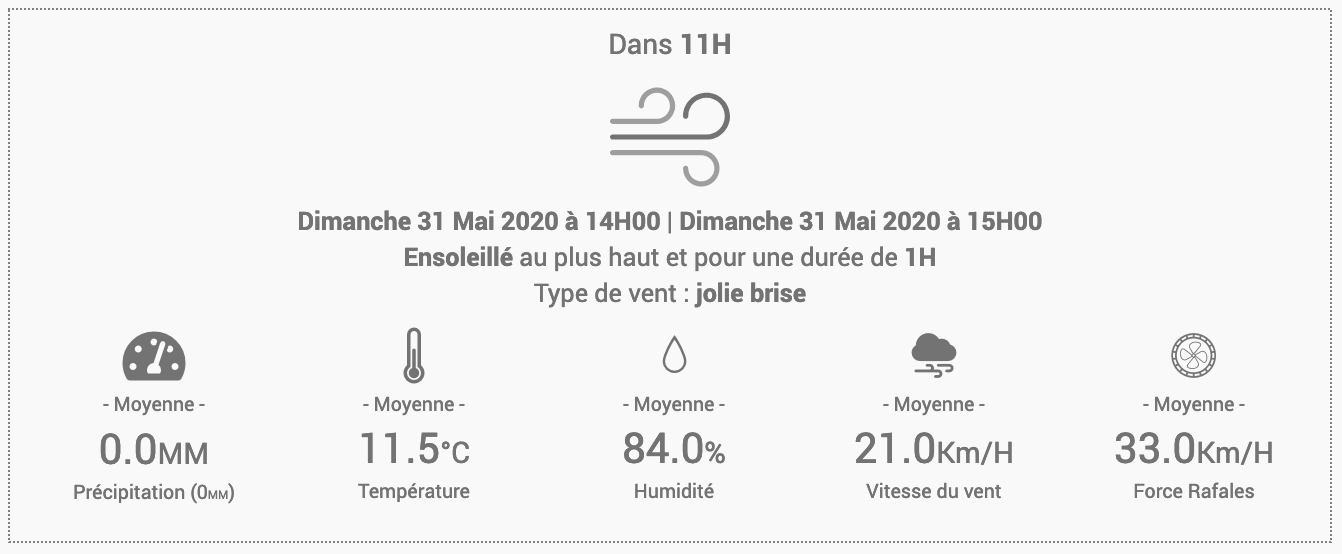
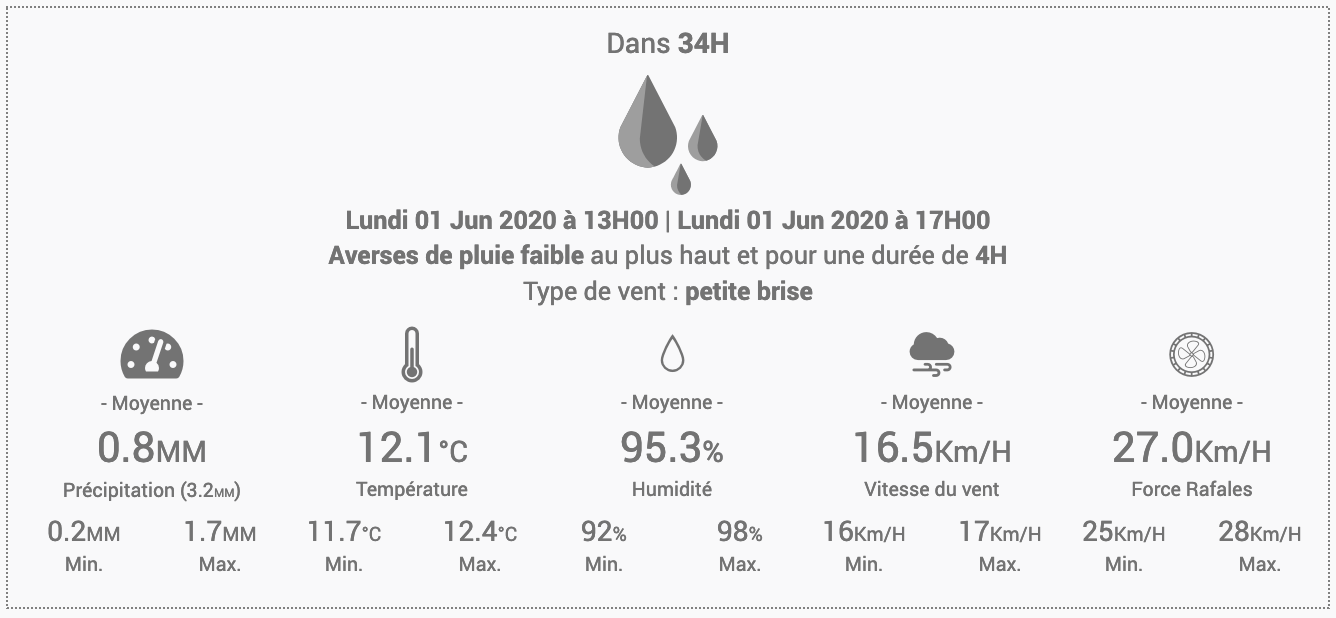
Suite Doc Ajout Latitude et Longitude Fix mois

diff --git a/core/class/previsy.class.php b/core/class/previsy.class.php
@@ -90,6 +90,8 @@ class previsy extends eqLogic {
         log::add('previsy', 'debug', 'UpdateDatas :. Lancement des mises à jour des données de #ID#' . $previsy->getId());
 
         $previsy->checkAndUpdateCmd('ville', $info["GLOBAL"]["VILLE"]);
+        $previsy->checkAndUpdateCmd('latitude', $info["GLOBAL"]["LATITUDE"]);
+        $previsy->checkAndUpdateCmd('longitude', $info["GLOBAL"]["LONGITUDE"]);
         $previsy->checkAndUpdateCmd('last_update', $info["GLOBAL"]["LAST_SYNCHRO"]);
         
         $showCommande = $previsy->getCofingShowCommandes();
@@ -263,6 +265,32 @@ class previsy extends eqLogic {
         $info->setIsVisible(0);
         $info->setType('info');
         $info->setSubType('string');
+        $info->save();
+        
+        $info = $this->getCmd(null, 'latitude');
+        if (!is_object($info)) {
+            $info = new previsyCmd();
+            $info->setName(__('Latitude', __FILE__));
+        }
+        $info->setLogicalId('latitude');
+        $info->setEqLogic_id($this->getId());
+        $info->setIsHistorized(0);
+        $info->setIsVisible(0);
+        $info->setType('info');
+        $info->setSubType('numeric');
+        $info->save();
+        
+        $info = $this->getCmd(null, 'longitude');
+        if (!is_object($info)) {
+            $info = new previsyCmd();
+            $info->setName(__('Longitude', __FILE__));
+        }
+        $info->setLogicalId('longitude');
+        $info->setEqLogic_id($this->getId());
+        $info->setIsHistorized(0);
+        $info->setIsVisible(0);
+        $info->setType('info');
+        $info->setSubType('numeric');
         $info->save();
 
         for ($i = 1; $i <= $nb_alerte; $i++) {
@@ -786,6 +814,12 @@ class previsy extends eqLogic {
 
         $last_date = $this->getCmd(null, 'ville');
         $replace['#ville#'] = (is_object($last_date)) ? $last_date->execCmd() : '';
+        
+        $last_date = $this->getCmd(null, 'latitude');
+        $replace['#latitude#'] = (is_object($last_date)) ? $last_date->execCmd() : '';
+        
+        $last_date = $this->getCmd(null, 'longitude');
+        $replace['#longitude#'] = (is_object($last_date)) ? $last_date->execCmd() : '';
 
         $last_date = $this->getCmd(null, 'last_update');
         $replace['#last_date#'] = (is_object($last_date)) ? $last_date->execCmd() : '';
@@ -1011,6 +1045,16 @@ class previsy extends eqLogic {
 
             $json = $getJson["datas"];
             $now["GLOBAL"]["LAST_SYNCHRO"] = $getJson["datetime"];
+            
+            if(!empty($eqLogic->getConfiguration("latitude")) AND !empty($eqLogic->getConfiguration("longitude"))){
+                $now["GLOBAL"]["VILLE"] = NULL;
+                $now["GLOBAL"]["LATITUDE"] = $eqLogic->getConfiguration("latitude");
+                $now["GLOBAL"]["LONGITUDE"] = $eqLogic->getConfiguration("longitude");
+            } elseif(!empty($eqLogic->getConfiguration("ville"))){
+                $now["GLOBAL"]["VILLE"] = $eqLogic->getConfiguration("ville");
+                $now["GLOBAL"]["LATITUDE"] = $json->city_info->latitude;
+                $now["GLOBAL"]["LONGITUDE"] = $json->city_info->longitude;
+            }
 
             if (!is_array($json->errors)) {
 
@@ -1253,6 +1297,10 @@ class previsy extends eqLogic {
         $eqLogic = self::byId($_id);
 
         $ville = $eqLogic->getConfiguration("ville");
+        
+        $latitude = $eqLogic->getConfiguration("latitude");
+        $ongitude = $eqLogic->getConfiguration("longitude");
+        
         $config = $eqLogic->getConfigPrevisy();
 
         $tempJson = $config["jsonTampon"] . $_id . ".json";
@@ -1281,6 +1329,16 @@ class previsy extends eqLogic {
         $eqLogic = self::byId($_id);
 
         $ville = $this->getConfiguration("ville");
+        
+        $latitude = $this->getConfiguration("latitude");
+        $longitude = $this->getConfiguration("longitude");
+        
+        if(!empty($latitude) AND !empty($longitude)){
+            $searchBy = "lat=".$latitude."lng=".$longitude;
+        } else {
+            $searchBy = $ville;
+        }
+        
         $config = $this->getConfigPrevisy();
 
         $tempStartTimeUrl = time();
@@ -1291,7 +1349,7 @@ class previsy extends eqLogic {
         }
 
         log::add('previsy', 'debug', 'miseEnCacheJson :. Récupération des données ' . $config["urlApi"] . $ville);
-        $json = file_get_contents($config["urlApi"] . $ville); // Prod
+        $json = file_get_contents($config["urlApi"] . $searchBy); // Prod
 
         if (!empty($json)) {
             $file_tmp = $config["jsonTampon"] . $_id . ".temp";

diff --git a/desktop/php/previsy.php b/desktop/php/previsy.php
@@ -103,6 +103,16 @@ $eqLogics = eqLogic::byType($plugin->getId());
                             </span>
                             <div><a href="" target="_blank"></a></div>
                         </div>
+                        <div class="form-group" style="margin-top: 15px;">
+                            <label class="col-sm-3 control-label">{{Coordonnées du point (prend le dessus sur la ville)}}</label>
+                            <div class="col-sm-3">
+                                <input type="text" class="eqLogicAttr form-control" data-l1key="configuration" data-l2key="latitude" placeholder="latitude" />
+                            </div>
+                            <div class="col-sm-3">
+                                <input type="text" class="eqLogicAttr form-control" data-l1key="configuration" data-l2key="longitude" placeholder="longitude" />
+                            </div>
+                            <div><a href="" target="_blank"></a></div>
+                        </div>
                         <div class="form-group" style="margin-top: 5px;">
                             <label class="col-sm-3 control-label">{{Afficher le texte prédictif dans le widget }}</label>
                             <div class="col-sm-3">

diff --git a/core/class/translate/previsy.class.fr_FR.php b/core/class/translate/previsy.class.fr_FR.php
@@ -15,7 +15,7 @@ class previsy_language {
         $return["HEURE"] = $_date->format('H:i');
         $return["DATE"] = $_date->format('d/m/Y');
         $return["JOUR"] = $_date->format('l');
-        $return["JOUR_TXT"] = self::traduitDateTimeJour($_date->format('l')) . " " . $_date->format('d') . " " . self::traduitDateTimeMois($_date->format('M')) . " " . $_date->format('Y') . " à " . $_date->format('H') . "H00";
+        $return["JOUR_TXT"] = self::traduitDateTimeJour($_date->format('l')) . " " . $_date->format('d') . " " . self::traduitDateTimeMois($_date->format('F')) . " " . $_date->format('Y') . " à " . $_date->format('H') . "H00";
         return $return;
     }
 

diff --git a/docs/fr_FR/index.md b/docs/fr_FR/index.md
@@ -8,38 +8,68 @@ Description
 
 Ce plugin annonce les prochaines alertes (72H) météo en France, Belgique et Suisse. Previsy construit également des phrases qui peuvent être utilisées pour vous être envoyées par sms, annoncées par votre home ou slack etc...
 
-**Exemple**
-> "Dans 23 heures, soit demain à partir de 20 heures, un orage est prévu durant 1 heure. Il y aura un total de 0.7 millimètre de précipatation. Le taux d’humidité sera de 86.0%. La température sera de 13.1°C. Le vent soufflera en moyenne à 8.0KM/H avec des rafales pouvant aller jusqu’à 13.0KM/H"
+## Exemples d'utilsation
+
+### Alertes de la vie courante
+
+> Vous souhaitez savoir ou étendre le linge ? Prévisy vous annoncera que la prochaine pluie est dans 14H et il y aura un peu de vent cela vaut le coup de l'étendre dehors.
+
+> Vous venez d'ouvrir un vélux ? Prévisy vous annoncera les prochaines précipitation pour penser à la fermer ou vous aider à paramètrer automatiquement une alerte une heure avant la pluie.
+
+### Indicateurs pour les sportifs
+
+> Après-demain dans 31H, Previsy vous annonce une bonne brise. Idéal pour sortie la planche à voile !
+
+> Passionné de surf, vous attendez la prochaine poudreuse ? Previsy vous annonce que la neige s'arrête se tomber ce week-end, ça tombe plutôt bien !
+
+> Ce week-end, le taux d'humidité est très haut dans la montagne ? Pourquoi ne pas aller ramasser des champignons ?
+
+Comme vous pouvez le voir, les prévisions peut vous aider sur pas mal de point.
+
+## Deux manières d'utiliser Previsy
+
+### Visuellement avec le widget
 
 ![previsy1](../images/widget-sans-txt.png)
 
-Vous pourrez, bien évidemment, récupérer les données brutes pour créer des scénarios particuliers.
+### En utilisant les données brutes
+
+Vous pourrez, bien évidemment, récupérer les données brutes pour créer vos scénarios et ainsi les associer à des services (SMS, Slack, Notification, etc.)
+
+![previsy2](../images/commandes.png)
 
 Installation
 ===
 
 ## Le plugin utilise prevision-meteo.ch
 
+prevision-meteo.ch est géré par une personne. Le serveur OVH qui porte ce serveur est très régulièrement saturé voir offline. Pour palier à ce problème, Previsy enregistre les données en cache et s'en sert pour ré-actualiser les widgets si le site est down.
+
 
 ## Configuration
 
 ![previsy2](../images/config-1.png)
 
-![previsy3](../images/config-2.png)
-
 ### Nombre d'alerte en prévision à afficher
 
 Cela permet de configurer le nombre d'alertes que vous souhaitez afficher. 
+
 **Exemple**
-> "Pour toujours afficher les deux prochaines alertes on sélectionne 2 alertes."*
+> "Vous souhaitez afficher uniquement les 2 prochaines alertes."*
 
 ### Temperature
 Vous avez la possibilité d'afficher les températures en degrés Celsius (°C) ou en degrés Fahrenheit (°F)
 
 ### Commandes à afficher (en option pour vos scénarios)
-Si vous souhaitez utiliser certaines données pour vous créer des scénarios sur mesures. Il suffit de cocher les commandes que vous souhaitez voir apparaitre.
-Toutes les commandes seront décrite par la suite. 
-Attention, si vous voulez afficher 5 alertes et toutes les commandes vous allez en avoir beaucoup ! 
+Les données vous permettant de créer vos scénarios sur mesures. Il vous suffit de cocher les commandes que vous souhaitez voir apparaitre. Vous n'aurez probablement pas besoin de tout utiliser. (toutes les commandes seront décrite par la suite). 
+
+**Attention**
+> Si vous voulez afficher 5 alertes et toutes les commandes vous allez en avoir beaucoup ! 
+
+### Tâche planifiée
+Si vous désactivez la tâche planifiée qui à lieu toutes les heures ... le plugin ne servira plus à rien ...
+
+![previsy3](../images/config-2.png)
 
 Gestion
 ===
@@ -47,6 +77,18 @@ Gestion
 ## Equipement
 
 ![previsy4](../images/parametre-1.png)
+
+### Ville
+Ici on entre le mot clé correspondant à la ville que vous désirez sonder. Pour vous permettre de tester, un bouton va s'afficher à droite de la saisie pour tester directement sur le site de prevision-meteo.ch
+Si le site est offline ou met du temps à répondre il faudra retenter plus tard.
+
+> Dans l'url le mot clé de la ville : https://www.prevision-meteo.ch/meteo/localite/***
+
+### Coordonnées du point
+
+Renseignez la latitude et la longitude de l'endroit que vous désirez sonder. Si vous renseigner les coordonées la ville ne sera pas prise en compte.
+
+> Dans l'url le mot clé par coordonées : https://www.prevision-meteo.ch/meteo/localite/lat=***lng=***
 
 ![previsy5](../images/widget-txt.png)
 
@@ -66,11 +108,13 @@ Gestion
 | ------------ | ------------ | ------------ | 
 | info | SynchroVille | Cela correspond à la ville que vous avez enregistré. |
 | info | SynchroLastUpDate | Date au format "timestamp" de la dernière synchronisation avec le site prevision-meteo.ch. | 
+| info | Latitude | Comme son nom l'indique | 
+| info | Longitude | Comme son nom l'indique | 
 | action | Rafraichir | La fameuse commande permettant de raffraichir le widget. Cela lancera un synchro au prêt de prevision-meteo.ch. | 
 
 ### Les commandes liées aux alertes
 
-Dans les prochaines commandes le "01" correspond au numéro de l'alerte associé à la valeur. Il peut donc y avoir cinq déclinaisons si vous avez configuré 5 alertes.
+> Ici les commandes sont liées à l'alerte 1, identifié par le "01" , plus il y a d'alerte plus il y aura de commande.
 
 | Type | Commande | Description |
 | ------------ | ------------ | ------------ |
